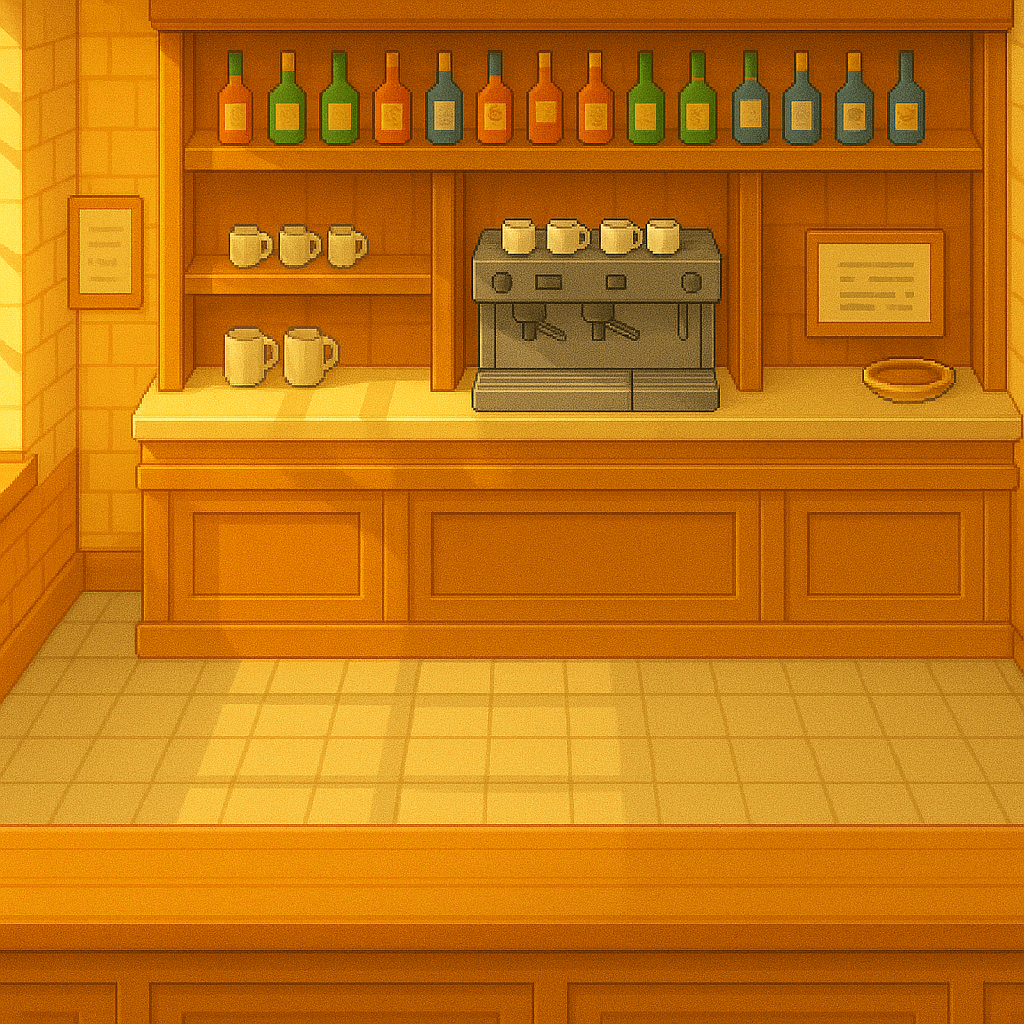
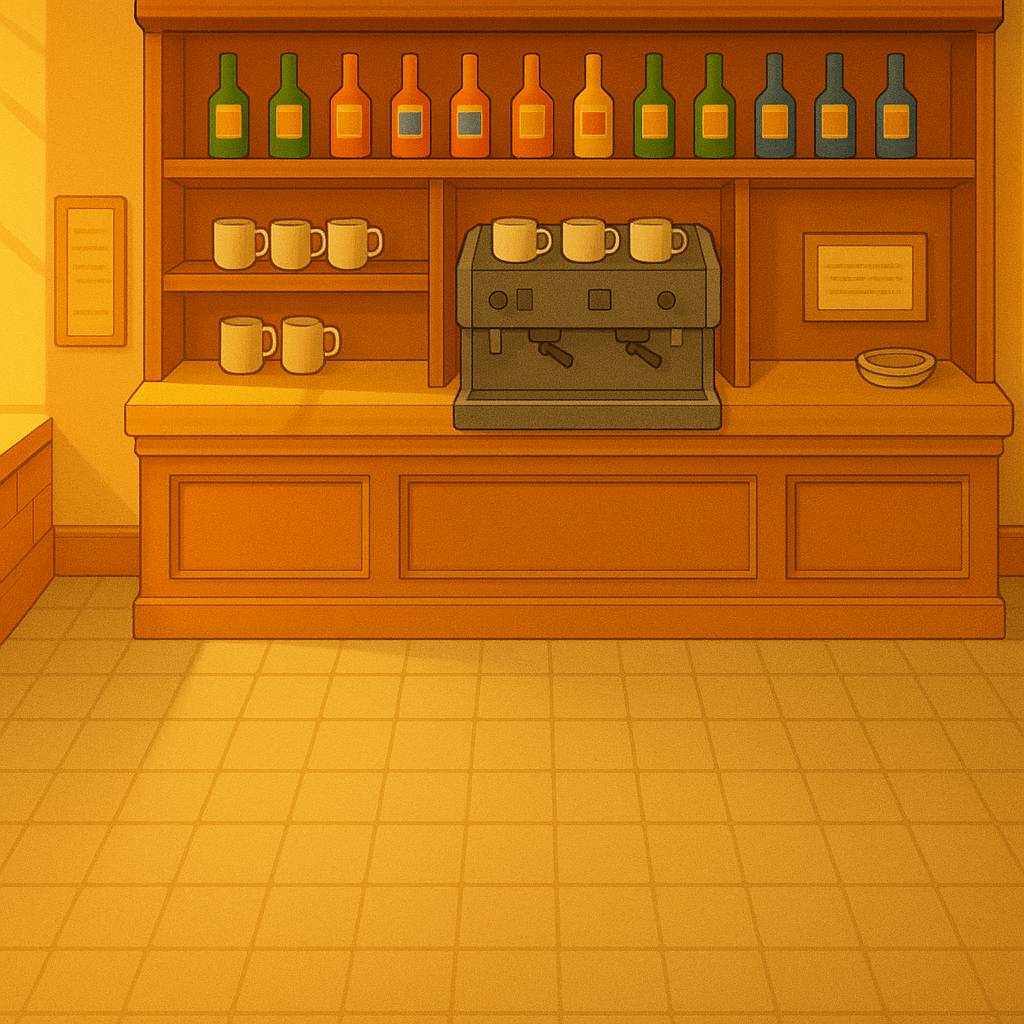
Room Background Update in PuzzleRoom2

diff --git a/src/main/java/it/unibo/exam/model/room/TheBar/PuzzleRoom2.java b/src/main/java/it/unibo/exam/model/room/TheBar/PuzzleRoom2.java
@@ -2,7 +2,11 @@ package it.unibo.exam.model.room.TheBar;
 
 import java.awt.Color;
 import java.awt.Graphics2D;
+import java.awt.Image;
+import java.io.File;
+import java.io.IOException;
 import java.util.List;
+import javax.imageio.ImageIO;
 import it.unibo.exam.controller.input.KeyHandler;
 import it.unibo.exam.model.entity.Door;
 import it.unibo.exam.model.game.GameState;
@@ -11,14 +15,26 @@ import it.unibo.exam.model.room.Room;
 import it.unibo.exam.view.panel.GamePanel;
 
 public class PuzzleRoom2 extends Room implements PuzzleRoom {
+    
     private boolean puzzleSolved = false;
     private final GameState gameState;
-    
+    private final Image backgroundImage;
+
     public PuzzleRoom2(final List<Door> doors, final GameState gameState) {
         super(Color.GRAY, doors);
         this.gameState = gameState;
+
+        Image img = null;
+        try {
+            img = ImageIO.read(new File(
+                "src/main/java/it/unibo/exam/model/room/TheBar/view/png/BarRoom.png"
+            ));
+        } catch (IOException e) {
+            System.err.println("❌ Could not load BarRoom.png: " + e.getMessage());
+        }
+        this.backgroundImage = img;
     }
-    
+
     @Override
     public void updatePuzzleLogic(final KeyHandler keyHandler) {
         int playerX = gameState.getPlayer().getX();
@@ -30,18 +46,21 @@ public class PuzzleRoom2 extends Room implements PuzzleRoom {
             if (playerX == 0 && playerY == 0 && keyHandler.interactPressed) {
                 puzzleSolved = true;
                 firstDoor.setSolved(true);
-                // Update the door in the main room
-                gameState.updateDoorState(2, true); // 2 is the index of this puzzle room
-                // Change room color
-                setBackgroundColor(Color.PINK);
+                gameState.updateDoorState(2, true); // 2 = index of this puzzle room
             }
         }
     }
     
     @Override
     public void draw(final Graphics2D g2) {
-        g2.setColor(getBackgroundColor());
-        g2.fillRect(0, 0, GamePanel.ORIGINAL_WIDTH, GamePanel.ORIGINAL_HEIGHT);
+        // Draw background image if available
+        if (backgroundImage != null) {
+            g2.drawImage(backgroundImage, 0, 0, GamePanel.ORIGINAL_WIDTH, GamePanel.ORIGINAL_HEIGHT, null);
+        } else {
+            // fallback if image failed
+            g2.setColor(getBackgroundColor());
+            g2.fillRect(0, 0, GamePanel.ORIGINAL_WIDTH, GamePanel.ORIGINAL_HEIGHT);
+        }
         
         // Draw doors
         for (Door door : getDoors()) {
@@ -49,6 +68,7 @@ public class PuzzleRoom2 extends Room implements PuzzleRoom {
             g2.fillRect(door.getX(), door.getY(), door.getWidth(), door.getHeight());
         }
         
+        // If puzzle solved
         if (puzzleSolved) {
             g2.setColor(Color.WHITE);
             g2.setFont(g2.getFont().deriveFont(24f));
